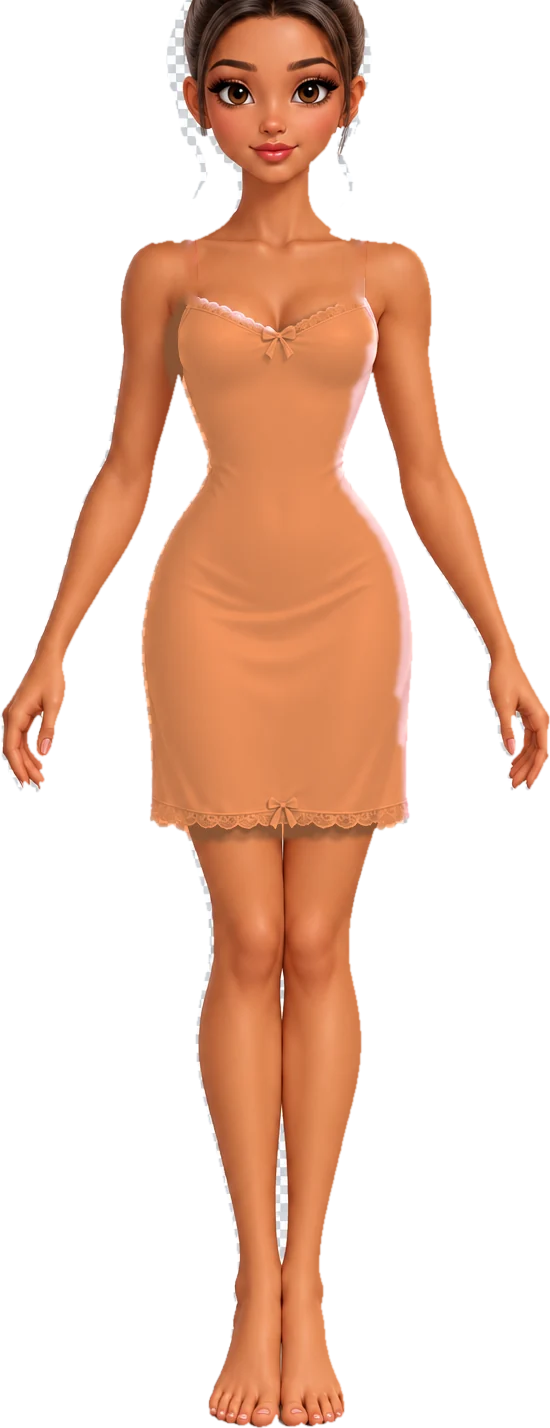
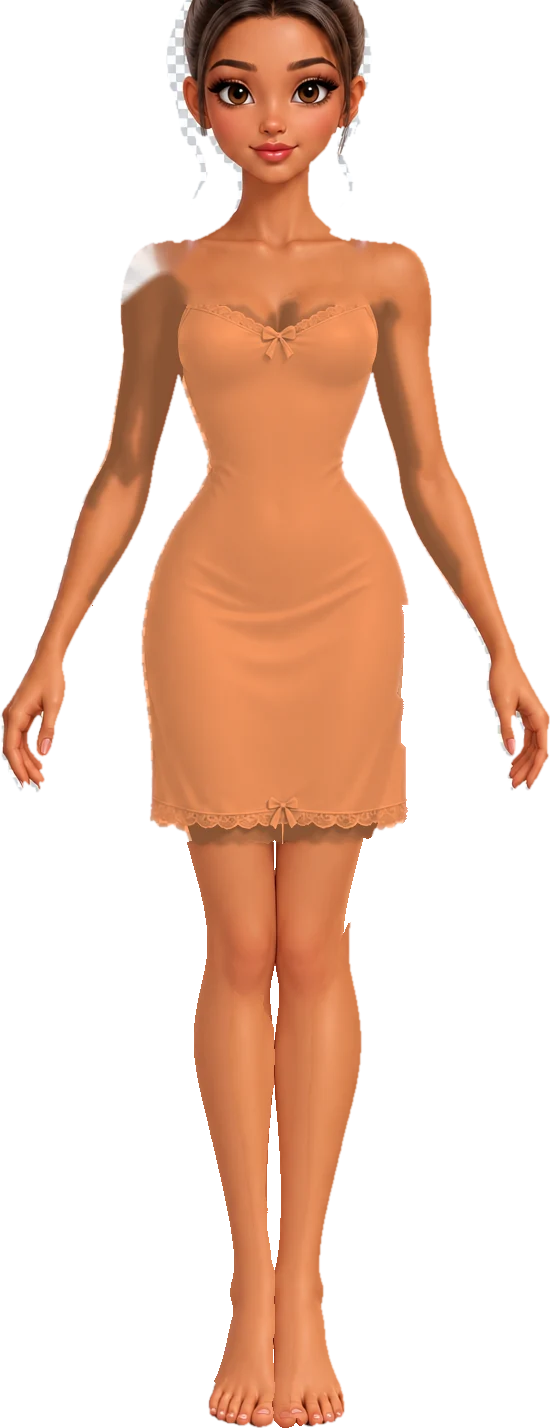
Наряди принцессу: все 10 принцесс, облегающие платья по контуру фигуры, чистые ноги под короткими юбками

diff --git a/dressup/js/doll-manifest.js b/dressup/js/doll-manifest.js
@@ -1,2 +1,2 @@
 // Собрано tools/build_assets.py из картинок ChatGPT — не править руками.
-export const DOLL = {"w": 1024, "h": 1536, "princesses": {"lilia": {"body": {"f": "body_lilia", "x": 239, "y": 95, "w": 541, "h": 1429}, "arms": {"f": "arms_lilia", "x": 241, "y": 334, "w": 537, "h": 544}, "hair": "hair_lilia", "face": "face_lilia"}, "sofia": {"body": {"f": "body_sofia", "x": 244, "y": 95, "w": 534, "h": 1428}, "arms": {"f": "arms_sofia", "x": 243, "y": 336, "w": 535, "h": 552}, "hair": "hair_sofia", "face": "face_sofia"}, "mia": {"body": {"f": "body_mia", "x": 239, "y": 95, "w": 541, "h": 1428}, "arms": {"f": "arms_mia", "x": 241, "y": 336, "w": 537, "h": 551}, "hair": "hair_mia", "face": "face_mia"}, "kira": {"body": {"f": "body_kira", "x": 238, "y": 95, "w": 550, "h": 1428}, "arms": {"f": "arms_kira", "x": 241, "y": 334, "w": 537, "h": 554}, "hair": "hair_kira", "face": "face_kira"}}, "items": {"hair_lilia": {"slot": "hair", "front": {"f": "hair_lilia_f", "x": 388, "y": 16, "w": 243, "h": 553}, "back": {"f": "hair_lilia_b", "x": 312, "y": 39, "w": 408, "h": 569}, "thumb": "t_hair_lilia", "princess": "lilia"}, "hair_sofia": {"slot": "hair", "front": {"f": "hair_sofia_f", "x": 406, "y": 7, "w": 203, "h": 330}, "back": {"f": "hair_sofia_b", "x": 408, "y": 5, "w": 208, "h": 329}, "thumb": "t_hair_sofia", "princess": "sofia"}, "hair_mia": {"slot": "hair", "front": {"f": "hair_mia_f", "x": 413, "y": 7, "w": 196, "h": 280}, "back": {"f": "hair_mia_b", "x": 419, "y": 6, "w": 214, "h": 333}, "thumb": "t_hair_mia", "princess": "mia"}, "hair_kira": {"slot": "hair", "front": {"f": "hair_kira_f", "x": 405, "y": 14, "w": 204, "h": 347}, "back": {"f": "hair_kira_b", "x": 336, "y": 29, "w": 350, "h": 311}, "thumb": "t_hair_kira", "princess": "kira"}, "ball_pink": {"slot": "dress", "thumb": "t_ball_pink", "layer": {"f": "ball_pink", "x": 13, "y": 385, "w": 999, "h": 1139}, "sleeves": true}, "dress_wedding": {"slot": "dress", "thumb": "t_dress_wedding", "layer": {"f": "dress_wedding", "x": 5, "y": 378, "w": 1016, "h": 1146}, "sleeves": true}, "shoes_glass": {"slot": "shoes", "thumb": "t_shoes_glass", "layer": {"f": "shoes_glass", "x": 436, "y": 1397, "w": 167, "h": 126}}, "head_tiara": {"slot": "head", "thumb": "t_head_tiara", "layer": {"f": "head_tiara", "x": 430, "y": 26, "w": 158, "h": 94}}, "dress_princess": {"slot": "dress", "thumb": "t_dress_princess", "layer": {"f": "dress_princess", "x": 4, "y": 313, "w": 1007, "h": 1213}, "sleeves": true}, "dress_summer": {"slot": "dress", "thumb": "t_dress_summer", "layer": {"f": "dress_summer", "x": 256, "y": 332, "w": 513, "h": 676}, "sleeves": false}, "held_wand": {"slot": "held", "thumb": "t_held_wand", "layer": {"f": "held_wand", "x": 151, "y": 555, "w": 145, "h": 348}}, "dress_fairy": {"slot": "dress", "thumb": "t_dress_fairy", "layer": {"f": "dress_fairy", "x": 287, "y": 326, "w": 413, "h": 617}, "sleeves": false}, "wings_fairy": {"slot": "wings", "thumb": "t_wings_fairy", "layer": {"f": "wings_fairy", "x": 82, "y": 71, "w": 860, "h": 723}}, "head_crown": {"slot": "head", "thumb": "t_head_crown", "layer": {"f": "head_crown", "x": 441, "y": 15, "w": 135, "h": 66}}, "dress_royal": {"slot": "dress", "thumb": "t_dress_royal", "layer": {"f": "dress_royal", "x": 5, "y": 328, "w": 1013, "h": 1199}, "sleeves": true}, "shoes_flats": {"slot": "shoes", "thumb": "t_shoes_flats", "layer": {"f": "shoes_flats", "x": 439, "y": 1404, "w": 138, "h": 115}}, "dress_mermaid": {"slot": "dress", "thumb": "t_dress_mermaid", "layer": {"f": "dress_mermaid", "x": 216, "y": 334, "w": 617, "h": 1198}, "sleeves": false}, "necklace_pearl": {"slot": "necklace", "thumb": "t_necklace_pearl", "layer": {"f": "necklace_pearl", "x": 460, "y": 305, "w": 100, "h": 50}}, "head_wreath": {"slot": "head", "thumb": "t_head_wreath", "layer": {"f": "head_wreath", "x": 392, "y": 48, "w": 229, "h": 129}}, "held_bouquet": {"slot": "held", "thumb": "t_held_bouquet", "layer": {"f": "held_bouquet", "x": 114, "y": 610, "w": 260, "h": 398}}, "dress_evening": {"slot": "dress", "thumb": "t_dress_evening", "layer": {"f": "dress_evening", "x": 170, "y": 333, "w": 688, "h": 1199}, "sleeves": false}, "earrings_pearl": {"slot": "earrings", "thumb": "t_earrings_pearl", "layer": {"f": "earrings_pearl", "x": 433, "y": 230, "w": 153, "h": 56}}, "dress_casual": {"slot": "dress", "thumb": "t_dress_casual", "layer": {"f": "dress_casual", "x": 245, "y": 327, "w": 529, "h": 618}, "sleeves": true}, "shoes_sneakers": {"slot": "shoes", "thumb": "t_shoes_sneakers", "layer": {"f": "shoes_sneakers", "x": 432, "y": 1361, "w": 161, "h": 161}}, "dress_party": {"slot": "dress", "thumb": "t_dress_party", "layer": {"f": "dress_party", "x": 176, "y": 333, "w": 667, "h": 650}, "sleeves": true}, "head_crown_big": {"slot": "head", "thumb": "t_head_crown_big", "layer": {"f": "head_crown_big", "x": 399, "y": 1, "w": 227, "h": 154}}, "outer_mantle": {"slot": "outer", "thumb": "t_outer_mantle", "front": {"f": "outer_mantle_f", "x": 261, "y": 325, "w": 498, "h": 560}, "back": {"f": "outer_mantle_b", "x": 2, "y": 270, "w": 1021, "h": 1186}, "sleeves": true}, "held_scepter": {"slot": "held", "thumb": "t_held_scepter", "layer": {"f": "held_scepter", "x": 190, "y": 401, "w": 147, "h": 584}}}};
+export const DOLL = {"w": 1024, "h": 1536, "princesses": {"lilia": {"body": {"f": "body_lilia", "x": 239, "y": 95, "w": 541, "h": 1428}, "arms": {"f": "arms_lilia", "x": 241, "y": 334, "w": 537, "h": 544}, "hair": "hair_lilia", "face": "face_lilia"}, "sofia": {"body": {"f": "body_sofia", "x": 244, "y": 95, "w": 534, "h": 1428}, "arms": {"f": "arms_sofia", "x": 243, "y": 336, "w": 535, "h": 552}, "hair": "hair_sofia", "face": "face_sofia"}, "mia": {"body": {"f": "body_mia", "x": 239, "y": 95, "w": 541, "h": 1428}, "arms": {"f": "arms_mia", "x": 241, "y": 336, "w": 537, "h": 551}, "hair": "hair_mia", "face": "face_mia"}, "kira": {"body": {"f": "body_kira", "x": 238, "y": 95, "w": 550, "h": 1428}, "arms": {"f": "arms_kira", "x": 241, "y": 334, "w": 537, "h": 554}, "hair": "hair_kira", "face": "face_kira"}, "emma": {"body": {"f": "body_emma", "x": 241, "y": 95, "w": 543, "h": 1428}, "arms": {"f": "arms_emma", "x": 241, "y": 335, "w": 537, "h": 548}, "hair": "hair_emma", "face": "face_emma"}, "amelia": {"body": {"f": "body_amelia", "x": 242, "y": 27, "w": 536, "h": 1496}, "arms": {"f": "arms_amelia", "x": 242, "y": 337, "w": 536, "h": 551}, "hair": "hair_amelia", "face": "face_amelia"}, "adel": {"body": {"f": "body_adel", "x": 240, "y": 95, "w": 544, "h": 1407}, "arms": {"f": "arms_adel", "x": 241, "y": 334, "w": 537, "h": 522}, "hair": "hair_adel", "face": "face_adel"}, "eliza": {"body": {"f": "body_eliza", "x": 240, "y": 95, "w": 543, "h": 1397}, "arms": {"f": "arms_eliza", "x": 241, "y": 334, "w": 537, "h": 528}, "hair": "hair_eliza", "face": "face_eliza"}, "victoria": {"body": {"f": "body_victoria", "x": 233, "y": 95, "w": 555, "h": 1428}, "arms": {"f": "arms_victoria", "x": 241, "y": 334, "w": 537, "h": 552}, "hair": "hair_victoria", "face": "face_victoria"}, "alisa": {"body": {"f": "body_alisa", "x": 243, "y": 95, "w": 534, "h": 1397}, "arms": {"f": "arms_alisa", "x": 242, "y": 334, "w": 535, "h": 522}, "hair": "hair_alisa", "face": "face_alisa"}}, "items": {"hair_lilia": {"slot": "hair", "front": {"f": "hair_lilia_f", "x": 388, "y": 16, "w": 243, "h": 553}, "back": {"f": "hair_lilia_b", "x": 312, "y": 39, "w": 408, "h": 569}, "thumb": "t_hair_lilia", "princess": "lilia"}, "hair_sofia": {"slot": "hair", "front": {"f": "hair_sofia_f", "x": 406, "y": 7, "w": 203, "h": 330}, "back": {"f": "hair_sofia_b", "x": 408, "y": 5, "w": 208, "h": 329}, "thumb": "t_hair_sofia", "princess": "sofia"}, "hair_mia": {"slot": "hair", "front": {"f": "hair_mia_f", "x": 413, "y": 7, "w": 196, "h": 280}, "back": {"f": "hair_mia_b", "x": 419, "y": 6, "w": 214, "h": 333}, "thumb": "t_hair_mia", "princess": "mia"}, "hair_kira": {"slot": "hair", "front": {"f": "hair_kira_f", "x": 405, "y": 14, "w": 204, "h": 347}, "back": {"f": "hair_kira_b", "x": 336, "y": 29, "w": 350, "h": 311}, "thumb": "t_hair_kira", "princess": "kira"}, "hair_emma": {"slot": "hair", "front": {"f": "hair_emma_f", "x": 405, "y": 13, "w": 247, "h": 536}, "back": {"f": "hair_emma_b", "x": 397, "y": 30, "w": 238, "h": 518}, "thumb": "t_hair_emma", "princess": "emma"}, "hair_amelia": {"slot": "hair", "front": {"f": "hair_amelia_f", "x": 405, "y": 9, "w": 204, "h": 529}, "back": {"f": "hair_amelia_b", "x": 296, "y": 10, "w": 477, "h": 889}, "thumb": "t_hair_amelia", "princess": "amelia"}, "hair_adel": {"slot": "hair", "front": {"f": "hair_adel_f", "x": 358, "y": 15, "w": 312, "h": 639}, "back": {"f": "hair_adel_b", "x": 328, "y": 18, "w": 372, "h": 696}, "thumb": "t_hair_adel", "princess": "adel"}, "hair_eliza": {"slot": "hair", "front": {"f": "hair_eliza_f", "x": 387, "y": 10, "w": 270, "h": 595}, "back": {"f": "hair_eliza_b", "x": 305, "y": 12, "w": 437, "h": 606}, "thumb": "t_hair_eliza", "princess": "eliza"}, "hair_victoria": {"slot": "hair", "front": {"f": "hair_victoria_f", "x": 405, "y": 13, "w": 204, "h": 328}, "back": {"f": "hair_victoria_b", "x": 397, "y": 29, "w": 220, "h": 308}, "thumb": "t_hair_victoria", "princess": "victoria"}, "hair_alisa": {"slot": "hair", "front": {"f": "hair_alisa_f", "x": 392, "y": 7, "w": 233, "h": 483}, "back": {"f": "hair_alisa_b", "x": 404, "y": 6, "w": 212, "h": 486}, "thumb": "t_hair_alisa", "princess": "alisa"}, "ball_pink": {"slot": "dress", "thumb": "t_ball_pink", "layer": {"f": "ball_pink", "x": 13, "y": 385, "w": 999, "h": 1139}, "sleeves": true}, "dress_wedding": {"slot": "dress", "thumb": "t_dress_wedding", "layer": {"f": "dress_wedding", "x": 5, "y": 378, "w": 1016, "h": 1146}, "sleeves": true}, "shoes_glass": {"slot": "shoes", "thumb": "t_shoes_glass", "layer": {"f": "shoes_glass", "x": 436, "y": 1397, "w": 167, "h": 126}}, "head_tiara": {"slot": "head", "thumb": "t_head_tiara", "layer": {"f": "head_tiara", "x": 430, "y": 26, "w": 158, "h": 94}}, "dress_princess": {"slot": "dress", "thumb": "t_dress_princess", "layer": {"f": "dress_princess", "x": 4, "y": 313, "w": 1007, "h": 1213}, "sleeves": true}, "dress_summer": {"slot": "dress", "thumb": "t_dress_summer", "layer": {"f": "dress_summer", "x": 256, "y": 332, "w": 513, "h": 676}, "sleeves": false}, "held_wand": {"slot": "held", "thumb": "t_held_wand", "layer": {"f": "held_wand", "x": 151, "y": 555, "w": 145, "h": 348}}, "dress_fairy": {"slot": "dress", "thumb": "t_dress_fairy", "layer": {"f": "dress_fairy", "x": 287, "y": 326, "w": 413, "h": 617}, "sleeves": false}, "wings_fairy": {"slot": "wings", "thumb": "t_wings_fairy", "layer": {"f": "wings_fairy", "x": 82, "y": 71, "w": 860, "h": 723}}, "head_crown": {"slot": "head", "thumb": "t_head_crown", "layer": {"f": "head_crown", "x": 441, "y": 15, "w": 135, "h": 66}}, "dress_royal": {"slot": "dress", "thumb": "t_dress_royal", "layer": {"f": "dress_royal", "x": 5, "y": 328, "w": 1013, "h": 1199}, "sleeves": true}, "shoes_flats": {"slot": "shoes", "thumb": "t_shoes_flats", "layer": {"f": "shoes_flats", "x": 439, "y": 1404, "w": 138, "h": 115}}, "necklace_pearl": {"slot": "necklace", "thumb": "t_necklace_pearl", "layer": {"f": "necklace_pearl", "x": 460, "y": 305, "w": 100, "h": 50}}, "head_wreath": {"slot": "head", "thumb": "t_head_wreath", "layer": {"f": "head_wreath", "x": 392, "y": 48, "w": 229, "h": 129}}, "held_bouquet": {"slot": "held", "thumb": "t_held_bouquet", "layer": {"f": "held_bouquet", "x": 114, "y": 610, "w": 260, "h": 398}}, "dress_evening": {"slot": "dress", "thumb": "t_dress_evening", "layer": {"f": "dress_evening", "x": 170, "y": 333, "w": 688, "h": 1199}, "sleeves": false}, "earrings_pearl": {"slot": "earrings", "thumb": "t_earrings_pearl", "layer": {"f": "earrings_pearl", "x": 433, "y": 230, "w": 153, "h": 56}}, "dress_casual": {"slot": "dress", "thumb": "t_dress_casual", "layer": {"f": "dress_casual", "x": 245, "y": 327, "w": 529, "h": 618}, "sleeves": true}, "shoes_sneakers": {"slot": "shoes", "thumb": "t_shoes_sneakers", "layer": {"f": "shoes_sneakers", "x": 432, "y": 1361, "w": 161, "h": 161}}, "dress_party": {"slot": "dress", "thumb": "t_dress_party", "layer": {"f": "dress_party", "x": 176, "y": 333, "w": 667, "h": 650}, "sleeves": true}, "head_crown_big": {"slot": "head", "thumb": "t_head_crown_big", "layer": {"f": "head_crown_big", "x": 399, "y": 1, "w": 227, "h": 154}}, "outer_mantle": {"slot": "outer", "thumb": "t_outer_mantle", "front": {"f": "outer_mantle_f", "x": 261, "y": 325, "w": 498, "h": 560}, "back": {"f": "outer_mantle_b", "x": 2, "y": 270, "w": 1021, "h": 1186}, "sleeves": true}, "held_scepter": {"slot": "held", "thumb": "t_held_scepter", "layer": {"f": "held_scepter", "x": 190, "y": 401, "w": 147, "h": 584}}, "head_veil": {"slot": "head", "thumb": "t_head_veil", "front": {"f": "head_veil_f", "x": 440, "y": 275, "w": 3, "h": 3}, "back": {"f": "head_veil_b", "x": 13, "y": 59, "w": 1004, "h": 1437}}, "shoes_boots": {"slot": "shoes", "thumb": "t_shoes_boots", "layer": {"f": "shoes_boots", "x": 416, "y": 1213, "w": 193, "h": 316}}}};

diff --git a/dressup/tools/build_assets.py b/dressup/tools/build_assets.py
@@ -71,6 +71,23 @@ def slip_region(man):
     return ndimage.binary_dilation(core, iterations=7)
 
 
+def own_slip(body):
+    """Нижнее платье этой принцессы: всё «не цвета кожи» на туловище, связанное с животом."""
+    rgb = body[..., :3]
+    skin = np.median(rgb[345:385, 460:560].reshape(-1, 3), 0)
+    dev = np.sqrt(((rgb - skin) ** 2).sum(-1))
+    cand = (dev > 34) & (body[..., 3] > 200)
+    cand[:330] = False
+    cand[:, :330] = False
+    cand[:, 694:] = False
+    lab, _ = ndimage.label(cand)
+    c = lab[600, 512]
+    if not c:
+        return np.zeros_like(cand)
+    core = ndimage.binary_fill_holes(ndimage.binary_closing(lab == c, iterations=3))
+    return ndimage.binary_dilation(core, iterations=5)
+
+
 def skin_slip(body, region):
     """Нижнее платье принцессы перекрашиваем в тон её кожи, сохраняя светотень.
     Под любым вырезом платья тогда видна кожа, а не бельё."""
@@ -86,7 +103,7 @@ def skin_slip(body, region):
     soft = ndimage.gaussian_filter(reg.astype(np.float32), 2.0)[..., None]
     out = body.copy()
     out[..., :3] = rgb * (1 - soft) + rec * soft
-    # бретели (выше выреза) — дорисовываем окружающей кожей, чтобы не осталось даже контура
+    # бретели (выше выреза) и подол на бёдрах — дорисовываем окружающей кожей, чтобы не осталось даже контура
     top = reg.copy()
     top[398:] = False
     if top.any():
@@ -153,7 +170,7 @@ def main():
     silhouette = ndimage.binary_erosion(man[..., 3] > 128, iterations=2)
     manifest = {'w': W, 'h': H, 'princesses': {}, 'items': {}}
     # кэш: вещь пересобирается, только если её исходные картинки изменились (или сменилась версия сборки)
-    VER = 7
+    VER = 10
     cpath = os.path.join(ART, 'build_cache.json')
     cache = json.load(open(cpath, encoding='utf8')) if os.path.exists(cpath) else {}
     if cache.get('_ver') != VER:
@@ -200,7 +217,17 @@ def main():
             clean[..., 3][bun_mask] = 0
         else:
             clean = fill_under_hair(body, man, hair_d, silhouette)
-        clean = skin_slip(clean, slip)
+        mine = own_slip(clean)
+        # ниже подола манекена у принцессы бывает длиннее нижнее платье — там берём ноги манекена в её тоне кожи
+        longer = mine & ~ndimage.binary_dilation(slip, iterations=3)
+        longer[:700] = False
+        if longer.any():
+            ks, km = skin_mean(clean), skin_mean(man)
+            if ks is not None and km is not None:
+                legs = man[..., :3] * (ks / np.maximum(km, 1))
+                clean[..., :3][longer] = legs[longer]
+                clean[..., 3][longer] = np.where(man[..., 3][longer] > 128, 255, 0)
+        clean = skin_slip(clean, slip | (mine & ~longer))
         entry = {'body': save_layer(clean, clean[..., 3] > 5, f'body_{pid}', soft=0)}
         if arms_mask is not None:
             entry['arms'] = save_layer(body, arms_mask & ~hair_d, f'arms_{pid}', soft=0.8)
@@ -250,6 +277,22 @@ def main():
                     d[..., :3][hole] = rgb[hole]
                     d[..., 3][hole] = 255
                     m = m | hole
+            if slot == 'dress' and arms_mask is not None:
+                ys = np.nonzero(m.any(1))[0]
+                if len(ys):
+                    rows = np.zeros_like(m)
+                    rows[ys.min():ys.max() + 1] = True
+                    gap = (man[..., 3] > 200) & ~arms_mask & ~m & (d[..., 3] < 60) & rows
+                    gap &= ndimage.binary_dilation(m, iterations=40)
+                    gap &= ~(ndimage.binary_dilation(arms_mask, iterations=4))
+                    if gap.sum() > 50:
+                        gm = (gap * 255).astype(np.uint8)
+                        rgb = cv2.inpaint(np.ascontiguousarray(d[..., :3].clip(0, 255).astype(np.uint8)), gm, 13, cv2.INPAINT_TELEA)
+                        d = d.copy()
+                        d[..., :3][gap] = rgb[gap]
+                        d[..., 3][gap] = 255
+                        m = m | gap
+                        print('  widened', iid, int(gap.sum()))
             e['layer'] = save_layer(d, m, iid)
         # рукава: вещь закрывает руки манекена
         if arms_mask is not None and slot in ('dress', 'outer', 'gloves'):

diff --git a/dressup/tools/make_jobs.py b/dressup/tools/make_jobs.py
@@ -36,7 +36,7 @@ ITEMS = [
     ('head_crown', 'head', 'маленькую золотую корону с рубинами на голове', 'корону'),
     ('dress_royal', 'dress', 'королевское платье цвета бордо с золотой вышивкой, пышные рукава-фонарики, юбка до пола', 'платье (вместе с рукавами)'),
     ('shoes_flats', 'shoes', 'розовые балетки с бантиками', 'балетки'),
-    ('dress_mermaid', 'dress', 'платье русалки: бирюзовый сверкающий лиф на тонких бретелях, юбка-хвост в чешуе, расширяется у пола плавником', 'платье'),
+    ('dress_mermaid', 'dress', 'закрытое платье русалки для девочки: цельный бирюзовый сверкающий лиф без открытого живота на тонких бретелях, переходит в юбку-хвост в чешуе до пола с плавником внизу; ткань облегает фигуру по её контуру, живот и бёдра закрыты', 'платье'),
     ('necklace_pearl', 'necklace', 'жемчужное ожерелье на шее', 'ожерелье'),
     ('dress_winter', 'dress', 'зимнее голубое платье до пола с длинными рукавами, белой меховой отделкой и снежинками', 'платье (вместе с рукавами и мехом)'),
     ('head_wreath', 'head', 'венок из розовых и белых цветов на голове', 'венок'),
